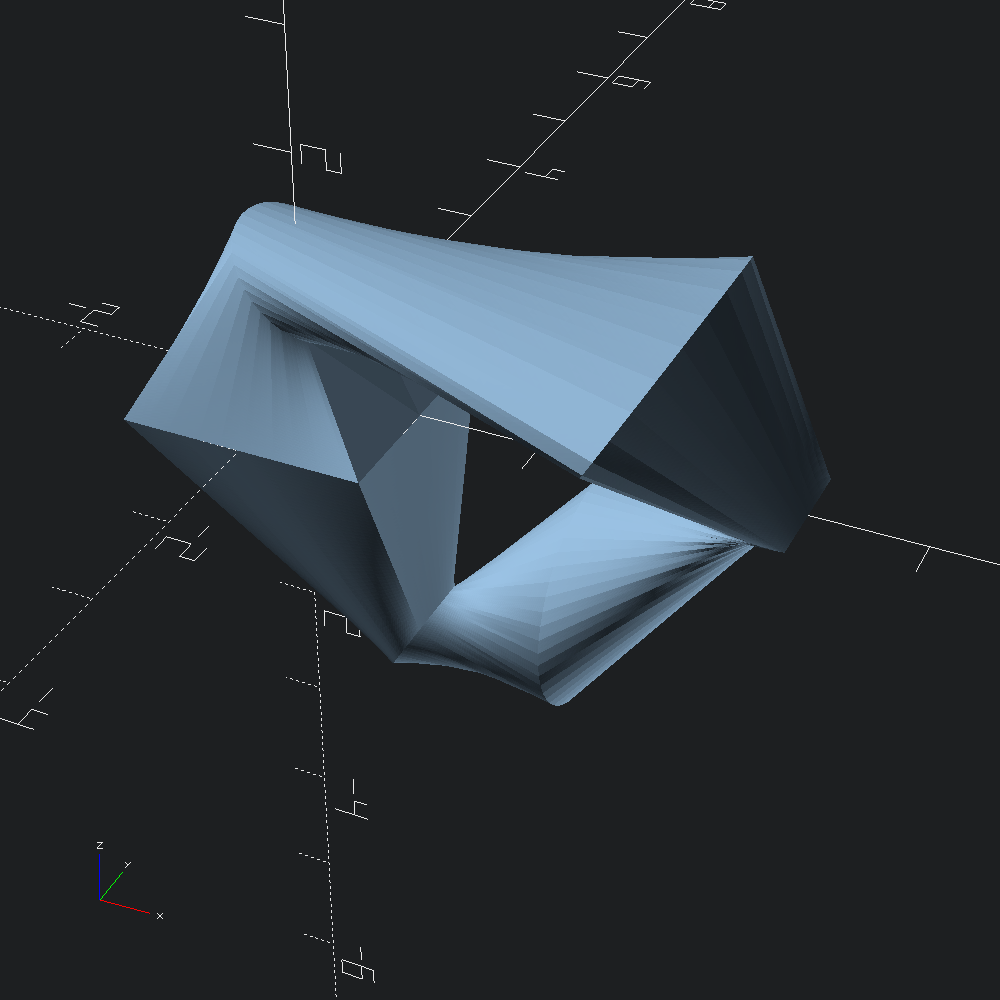
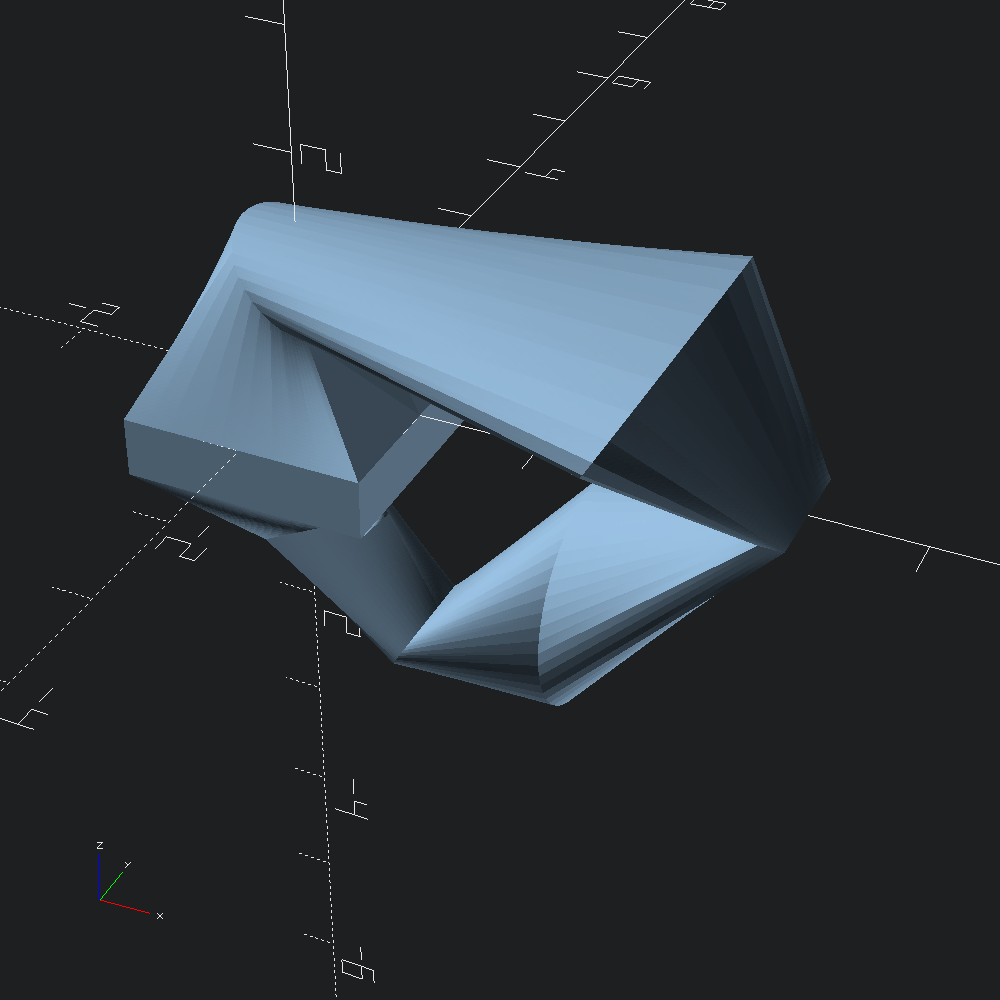
deploy: c149e432623deca5cec01039ba55d0dbb149db04

Changed region(s): [[0.124, 0.279, 0.775, 0.713], [0.31, 0.186, 0.713, 0.279]]

diff --git a/scad_ml/Scad_ml/Math/index.html b/scad_ml/Scad_ml/Math/index.html
@@ -1,2 +1,2 @@
 <!DOCTYPE html>
-<html xmlns="http://www.w3.org/1999/xhtml"><head><title>Math (scad_ml.Scad_ml.Math)</title><link rel="stylesheet" href="../../../odoc.css"/><meta charset="utf-8"/><meta name="generator" content="odoc 2.1.1"/><meta name="viewport" content="width=device-width,initial-scale=1.0"/><script src="../../../highlight.pack.js"></script><script>hljs.initHighlightingOnLoad();</script></head><body class="odoc"><nav class="odoc-nav"><a href="../index.html">Up</a> – <a href="../../index.html">scad_ml</a> &#x00BB; <a href="../index.html">Scad_ml</a> &#x00BB; Math</nav><header class="odoc-preamble"><h1>Module <code><span>Scad_ml.Math</span></code></h1><p>Various operations on floats (<i>e.g.</i> approximate equality, linear interpolation), and basic arbitrary size 2d matrix operations.</p></header><nav class="odoc-toc"><ul><li><a href="#float-operations">Float operations</a></li><li><a href="#angles-and-trigonometry">Angles and Trigonometry</a></li><li><a href="#2d-matrix-operations">2d matrix operations</a></li><li><a href="#polynomials">Polynomials</a></li></ul></nav><div class="odoc-content"><h2 id="float-operations"><a href="#float-operations" class="anchor"></a>Float operations</h2><div class="odoc-spec"><div class="spec value" id="val-sign" class="anchored"><a href="#val-sign" class="anchor"></a><code><span><span class="keyword">val</span> sign : <span>float <span class="arrow">&#45;&gt;</span></span> float</span></code></div><div class="spec-doc"><p><code>sign v</code></p><p>Return the sign of <code>v</code> as a float (<code>-1.</code>, <code>0.</code>, or <code>1.</code>).</p></div></div><div class="odoc-spec"><div class="spec value" id="val-clamp" class="anchored"><a href="#val-clamp" class="anchor"></a><code><span><span class="keyword">val</span> clamp : <span>min:float <span class="arrow">&#45;&gt;</span></span> <span>max:float <span class="arrow">&#45;&gt;</span></span> <span>float <span class="arrow">&#45;&gt;</span></span> float</span></code></div><div class="spec-doc"><p><code>clamp ~min ~max v</code></p><p>Clamp the float <code>v</code> between <code>min</code> and <code>max</code>.</p></div></div><div class="odoc-spec"><div class="spec value" id="val-lerp" class="anchored"><a href="#val-lerp" class="anchor"></a><code><span><span class="keyword">val</span> lerp : <span>float <span class="arrow">&#45;&gt;</span></span> <span>float <span class="arrow">&#45;&gt;</span></span> <span>float <span class="arrow">&#45;&gt;</span></span> float</span></code></div><div class="spec-doc"><p><code>lerp a b u</code></p><p>Linearly interpolate between floats <code>a</code> and <code>b</code>.</p></div></div><div class="odoc-spec"><div class="spec value" id="val-lerpn" class="anchored"><a href="#val-lerpn" class="anchor"></a><code><span><span class="keyword">val</span> lerpn : <span>?endpoint:bool <span class="arrow">&#45;&gt;</span></span> <span>float <span class="arrow">&#45;&gt;</span></span> <span>float <span class="arrow">&#45;&gt;</span></span> <span>int <span class="arrow">&#45;&gt;</span></span> <span>float list</span></span></code></div><div class="spec-doc"><p><code>lerpn ?endpoint a b n</code></p><p>Linearly interpolate <code>n</code> values between <code>a</code> and <code>b</code>. If <code>endpoint</code> is <code>true</code>, the last value will be equal to <code>b</code>, otherwise, it will be about <code>a + (b - a) * (1 - 1 / n)</code>.</p></div></div><div class="odoc-spec"><div class="spec value" id="val-quant" class="anchored"><a href="#val-quant" class="anchor"></a><code><span><span class="keyword">val</span> quant : <span>q:float <span class="arrow">&#45;&gt;</span></span> <span>float <span class="arrow">&#45;&gt;</span></span> float</span></code></div><div class="spec-doc"><p><code>quant ~q v</code></p><p>Quantize <code>v</code> to a multiple of the quantum size <code>q</code>. For example:</p><pre><code>quant ~q:0.2 1.5 = 1.6</code></pre></div></div><div class="odoc-spec"><div class="spec value" id="val-quant_down" class="anchored"><a href="#val-quant_down" class="anchor"></a><code><span><span class="keyword">val</span> quant_down : <span>q:float <span class="arrow">&#45;&gt;</span></span> <span>float <span class="arrow">&#45;&gt;</span></span> float</span></code></div><div class="spec-doc"><p><code>quant_down ~q v</code></p><p>Quantize <code>v</code> to a multiple of the quantum size <code>q</code>, always rounding down. For example:</p><pre><code>quant_down ~q:0.2 1.75 = 1.6</code></pre></div></div><div class="odoc-spec"><div class="spec value" id="val-quant_up" class="anchored"><a href="#val-quant_up" class="anchor"></a><code><span><span class="keyword">val</span> quant_up : <span>q:float <span class="arrow">&#45;&gt;</span></span> <span>float <span class="arrow">&#45;&gt;</span></span> float</span></code></div><div class="spec-doc"><p><code>quant_up ~q v</code></p><p>Quantize <code>v</code> to a multiple of the quantum size <code>q</code>, always rounding up. For example:</p><pre><code>quant_up ~q:0.2 1.51 = 1.6</code></pre></div></div><div class="odoc-spec"><div class="spec value" id="val-approx" class="anchored"><a href="#val-approx" class="anchor"></a><code><span><span class="keyword">val</span> approx : <span>?eps:float <span class="arrow">&#45;&gt;</span></span> <span>float <span class="arrow">&#45;&gt;</span></span> <span>float <span class="arrow">&#45;&gt;</span></span> bool</span></code></div><div class="spec-doc"><p><code>approx ?eps a b</code></p><p>Return <code>true</code> if <code>a</code> is within the tolerance <code>eps</code> of <code>b</code>.</p></div></div><div class="odoc-spec"><div class="spec value" id="val-posmod" class="anchored"><a href="#val-posmod" class="anchor"></a><code><span><span class="keyword">val</span> posmod : <span>float <span class="arrow">&#45;&gt;</span></span> <span>float <span class="arrow">&#45;&gt;</span></span> float</span></code></div><div class="spec-doc"><p><code>posmod a m</code></p><p>Compute the positive modulo <code>m</code> of <code>a</code>. The resulting value will be in the range of <code>0.</code> to <code>m -. 1.</code>.</p></div></div><h2 id="angles-and-trigonometry"><a href="#angles-and-trigonometry" class="anchor"></a>Angles and Trigonometry</h2><div class="odoc-spec"><div class="spec value" id="val-deg_of_rad" class="anchored"><a href="#val-deg_of_rad" class="anchor"></a><code><span><span class="keyword">val</span> deg_of_rad : <span>float <span class="arrow">&#45;&gt;</span></span> float</span></code></div><div class="spec-doc"><p><code>deg_of_rad r</code></p><p>Convert <code>r</code> from radians to degrees.</p></div></div><div class="odoc-spec"><div class="spec value" id="val-rad_of_deg" class="anchored"><a href="#val-rad_of_deg" class="anchor"></a><code><span><span class="keyword">val</span> rad_of_deg : <span>float <span class="arrow">&#45;&gt;</span></span> float</span></code></div><div class="spec-doc"><p><code>rad_of_deg d</code></p><p>Convert <code>d</code> from degrees to radians.</p></div></div><div class="odoc-spec"><div class="spec value" id="val-law_of_cosines" class="anchored"><a href="#val-law_of_cosines" class="anchor"></a><code><span><span class="keyword">val</span> law_of_cosines : <span>float <span class="arrow">&#45;&gt;</span></span> <span>float <span class="arrow">&#45;&gt;</span></span> <span>float <span class="arrow">&#45;&gt;</span></span> float</span></code></div><div class="spec-doc"><p><code>law_of_cosines a b c</code></p><p>Apply the Law of Cosines for a triangle with side lengths <code>a</code>, <code>b</code>, and <code>c</code>. The angle in radians of the corner opposite of the third side <code>c</code> is returned.</p></div></div><h2 id="2d-matrix-operations"><a href="#2d-matrix-operations" class="anchor"></a>2d matrix operations</h2><div class="odoc-spec"><div class="spec value" id="val-mat_dims" class="anchored"><a href="#val-mat_dims" class="anchor"></a><code><span><span class="keyword">val</span> mat_dims : <span><span><span><span class="type-var">'a</span> array</span> array</span> <span class="arrow">&#45;&gt;</span></span> int * int</span></code></div><div class="spec-doc"><p><code>mat_dims m</code></p><p>Return the dimensions (<code>(n_rows, n_cols)</code> of the 2d matrix <code>m</code>. An <code>Invalid_argument</code> exception is raised if the row lengths are inconsistent.</p></div></div><div class="odoc-spec"><div class="spec value" id="val-matmul" class="anchored"><a href="#val-matmul" class="anchor"></a><code><span><span class="keyword">val</span> matmul : <span><span><span>float array</span> array</span> <span class="arrow">&#45;&gt;</span></span> <span><span><span>float array</span> array</span> <span class="arrow">&#45;&gt;</span></span> <span><span>float array</span> array</span></span></code></div><div class="spec-doc"><p><code>matmul a b</code></p><p>Matrix multiplication of <code>a</code> and <code>b</code>. <code>Invalid_argument</code> is raised if the inner dimensions do not match, or if the rows of either matrix are ragged.</p></div></div><div class="odoc-spec"><div class="spec value" id="val-transpose" class="anchored"><a href="#val-transpose" class="anchor"></a><code><span><span class="keyword">val</span> transpose : <span><span><span><span class="type-var">'a</span> array</span> array</span> <span class="arrow">&#45;&gt;</span></span> <span><span><span class="type-var">'a</span> array</span> array</span></span></code></div><div class="spec-doc"><p><code>transpose m</code></p><p>Transpose rows and columns of the 2d matrix <code>m</code>.</p></div></div><h2 id="polynomials"><a href="#polynomials" class="anchor"></a>Polynomials</h2><div class="odoc-spec"><div class="spec value" id="val-real_roots" class="anchored"><a href="#val-real_roots" class="anchor"></a><code><span><span class="keyword">val</span> real_roots : <span>?eps:float <span class="arrow">&#45;&gt;</span></span> <span>?tol:float <span class="arrow">&#45;&gt;</span></span> <span><span>float array</span> <span class="arrow">&#45;&gt;</span></span> <span>float array</span></span></code></div><div class="spec-doc"><p><code>real_roots ?eps ?tol p</code></p><p>Compute the real roots of the real polynomial <code>p</code>. The polynomial is specified as <code>[|a_n; ...; a_1; a_0|]</code> where <code>a_n</code> is the <code>x ** n</code> coefficient.</p><ul><li><code>eps</code> is used to determine if the imaginary parts of the roots are zero</li><li><code>tol</code> is the tolerance for the complex polynomial root finder</li></ul><p>Adapted from the <code>real_roots</code> function found in the <a href="https://github.com/revarbat/BOSL2/blob/master/math.scad#L1361">BOSL2 math module</a>.</p></div></div></div></body></html>
+<html xmlns="http://www.w3.org/1999/xhtml"><head><title>Math (scad_ml.Scad_ml.Math)</title><link rel="stylesheet" href="../../../odoc.css"/><meta charset="utf-8"/><meta name="generator" content="odoc 2.1.1"/><meta name="viewport" content="width=device-width,initial-scale=1.0"/><script src="../../../highlight.pack.js"></script><script>hljs.initHighlightingOnLoad();</script></head><body class="odoc"><nav class="odoc-nav"><a href="../index.html">Up</a> – <a href="../../index.html">scad_ml</a> &#x00BB; <a href="../index.html">Scad_ml</a> &#x00BB; Math</nav><header class="odoc-preamble"><h1>Module <code><span>Scad_ml.Math</span></code></h1><p>Various operations on floats (<i>e.g.</i> approximate equality, linear interpolation), and basic arbitrary size 2d matrix operations.</p></header><nav class="odoc-toc"><ul><li><a href="#float-operations">Float operations</a></li><li><a href="#angles-and-trigonometry">Angles and Trigonometry</a></li><li><a href="#2d-matrix-operations">2d matrix operations</a></li><li><a href="#polynomials">Polynomials</a></li></ul></nav><div class="odoc-content"><h2 id="float-operations"><a href="#float-operations" class="anchor"></a>Float operations</h2><div class="odoc-spec"><div class="spec value" id="val-sign" class="anchored"><a href="#val-sign" class="anchor"></a><code><span><span class="keyword">val</span> sign : <span>float <span class="arrow">&#45;&gt;</span></span> float</span></code></div><div class="spec-doc"><p><code>sign v</code></p><p>Return the sign of <code>v</code> as a float (<code>-1.</code>, <code>0.</code>, or <code>1.</code>).</p></div></div><div class="odoc-spec"><div class="spec value" id="val-clamp" class="anchored"><a href="#val-clamp" class="anchor"></a><code><span><span class="keyword">val</span> clamp : <span>min:float <span class="arrow">&#45;&gt;</span></span> <span>max:float <span class="arrow">&#45;&gt;</span></span> <span>float <span class="arrow">&#45;&gt;</span></span> float</span></code></div><div class="spec-doc"><p><code>clamp ~min ~max v</code></p><p>Clamp the float <code>v</code> between <code>min</code> and <code>max</code>.</p></div></div><div class="odoc-spec"><div class="spec value" id="val-lerp" class="anchored"><a href="#val-lerp" class="anchor"></a><code><span><span class="keyword">val</span> lerp : <span>float <span class="arrow">&#45;&gt;</span></span> <span>float <span class="arrow">&#45;&gt;</span></span> <span>float <span class="arrow">&#45;&gt;</span></span> float</span></code></div><div class="spec-doc"><p><code>lerp a b u</code></p><p>Linearly interpolate between floats <code>a</code> and <code>b</code>.</p></div></div><div class="odoc-spec"><div class="spec value" id="val-lerpn" class="anchored"><a href="#val-lerpn" class="anchor"></a><code><span><span class="keyword">val</span> lerpn : <span>?endpoint:bool <span class="arrow">&#45;&gt;</span></span> <span>float <span class="arrow">&#45;&gt;</span></span> <span>float <span class="arrow">&#45;&gt;</span></span> <span>int <span class="arrow">&#45;&gt;</span></span> <span>float list</span></span></code></div><div class="spec-doc"><p><code>lerpn ?endpoint a b n</code></p><p>Linearly interpolate <code>n</code> values between <code>a</code> and <code>b</code>. If <code>endpoint</code> is <code>true</code>, the last value will be equal to <code>b</code>, otherwise, it will be about <code>a + (b - a) * (1 - 1 / n)</code>.</p></div></div><div class="odoc-spec"><div class="spec value" id="val-quant" class="anchored"><a href="#val-quant" class="anchor"></a><code><span><span class="keyword">val</span> quant : <span>q:float <span class="arrow">&#45;&gt;</span></span> <span>float <span class="arrow">&#45;&gt;</span></span> float</span></code></div><div class="spec-doc"><p><code>quant ~q v</code></p><p>Quantize <code>v</code> to a multiple of the quantum size <code>q</code>. For example:</p><pre><code>quant ~q:0.2 1.5 = 1.6</code></pre></div></div><div class="odoc-spec"><div class="spec value" id="val-quant_down" class="anchored"><a href="#val-quant_down" class="anchor"></a><code><span><span class="keyword">val</span> quant_down : <span>q:float <span class="arrow">&#45;&gt;</span></span> <span>float <span class="arrow">&#45;&gt;</span></span> float</span></code></div><div class="spec-doc"><p><code>quant_down ~q v</code></p><p>Quantize <code>v</code> to a multiple of the quantum size <code>q</code>, always rounding down. For example:</p><pre><code>quant_down ~q:0.2 1.75 = 1.6</code></pre></div></div><div class="odoc-spec"><div class="spec value" id="val-quant_up" class="anchored"><a href="#val-quant_up" class="anchor"></a><code><span><span class="keyword">val</span> quant_up : <span>q:float <span class="arrow">&#45;&gt;</span></span> <span>float <span class="arrow">&#45;&gt;</span></span> float</span></code></div><div class="spec-doc"><p><code>quant_up ~q v</code></p><p>Quantize <code>v</code> to a multiple of the quantum size <code>q</code>, always rounding up. For example:</p><pre><code>quant_up ~q:0.2 1.51 = 1.6</code></pre></div></div><div class="odoc-spec"><div class="spec value" id="val-approx" class="anchored"><a href="#val-approx" class="anchor"></a><code><span><span class="keyword">val</span> approx : <span>?eps:float <span class="arrow">&#45;&gt;</span></span> <span>float <span class="arrow">&#45;&gt;</span></span> <span>float <span class="arrow">&#45;&gt;</span></span> bool</span></code></div><div class="spec-doc"><p><code>approx ?eps a b</code></p><p>Return <code>true</code> if <code>a</code> is within the tolerance <code>eps</code> of <code>b</code>.</p></div></div><div class="odoc-spec"><div class="spec value" id="val-posmod" class="anchored"><a href="#val-posmod" class="anchor"></a><code><span><span class="keyword">val</span> posmod : <span>int <span class="arrow">&#45;&gt;</span></span> <span>int <span class="arrow">&#45;&gt;</span></span> int</span></code></div><div class="spec-doc"><p><code>posmod a m</code></p><p>Compute the positive modulo <code>m</code> of <code>a</code>. The resulting value will be in the range of <code>0</code> to <code>m - 1</code>.</p></div></div><h2 id="angles-and-trigonometry"><a href="#angles-and-trigonometry" class="anchor"></a>Angles and Trigonometry</h2><div class="odoc-spec"><div class="spec value" id="val-deg_of_rad" class="anchored"><a href="#val-deg_of_rad" class="anchor"></a><code><span><span class="keyword">val</span> deg_of_rad : <span>float <span class="arrow">&#45;&gt;</span></span> float</span></code></div><div class="spec-doc"><p><code>deg_of_rad r</code></p><p>Convert <code>r</code> from radians to degrees.</p></div></div><div class="odoc-spec"><div class="spec value" id="val-rad_of_deg" class="anchored"><a href="#val-rad_of_deg" class="anchor"></a><code><span><span class="keyword">val</span> rad_of_deg : <span>float <span class="arrow">&#45;&gt;</span></span> float</span></code></div><div class="spec-doc"><p><code>rad_of_deg d</code></p><p>Convert <code>d</code> from degrees to radians.</p></div></div><div class="odoc-spec"><div class="spec value" id="val-law_of_cosines" class="anchored"><a href="#val-law_of_cosines" class="anchor"></a><code><span><span class="keyword">val</span> law_of_cosines : <span>float <span class="arrow">&#45;&gt;</span></span> <span>float <span class="arrow">&#45;&gt;</span></span> <span>float <span class="arrow">&#45;&gt;</span></span> float</span></code></div><div class="spec-doc"><p><code>law_of_cosines a b c</code></p><p>Apply the Law of Cosines for a triangle with side lengths <code>a</code>, <code>b</code>, and <code>c</code>. The angle in radians of the corner opposite of the third side <code>c</code> is returned.</p></div></div><h2 id="2d-matrix-operations"><a href="#2d-matrix-operations" class="anchor"></a>2d matrix operations</h2><div class="odoc-spec"><div class="spec value" id="val-mat_dims" class="anchored"><a href="#val-mat_dims" class="anchor"></a><code><span><span class="keyword">val</span> mat_dims : <span><span><span><span class="type-var">'a</span> array</span> array</span> <span class="arrow">&#45;&gt;</span></span> int * int</span></code></div><div class="spec-doc"><p><code>mat_dims m</code></p><p>Return the dimensions (<code>(n_rows, n_cols)</code> of the 2d matrix <code>m</code>. An <code>Invalid_argument</code> exception is raised if the row lengths are inconsistent.</p></div></div><div class="odoc-spec"><div class="spec value" id="val-matmul" class="anchored"><a href="#val-matmul" class="anchor"></a><code><span><span class="keyword">val</span> matmul : <span><span><span>float array</span> array</span> <span class="arrow">&#45;&gt;</span></span> <span><span><span>float array</span> array</span> <span class="arrow">&#45;&gt;</span></span> <span><span>float array</span> array</span></span></code></div><div class="spec-doc"><p><code>matmul a b</code></p><p>Matrix multiplication of <code>a</code> and <code>b</code>. <code>Invalid_argument</code> is raised if the inner dimensions do not match, or if the rows of either matrix are ragged.</p></div></div><div class="odoc-spec"><div class="spec value" id="val-transpose" class="anchored"><a href="#val-transpose" class="anchor"></a><code><span><span class="keyword">val</span> transpose : <span><span><span><span class="type-var">'a</span> array</span> array</span> <span class="arrow">&#45;&gt;</span></span> <span><span><span class="type-var">'a</span> array</span> array</span></span></code></div><div class="spec-doc"><p><code>transpose m</code></p><p>Transpose rows and columns of the 2d matrix <code>m</code>.</p></div></div><h2 id="polynomials"><a href="#polynomials" class="anchor"></a>Polynomials</h2><div class="odoc-spec"><div class="spec value" id="val-real_roots" class="anchored"><a href="#val-real_roots" class="anchor"></a><code><span><span class="keyword">val</span> real_roots : <span>?eps:float <span class="arrow">&#45;&gt;</span></span> <span>?tol:float <span class="arrow">&#45;&gt;</span></span> <span><span>float array</span> <span class="arrow">&#45;&gt;</span></span> <span>float array</span></span></code></div><div class="spec-doc"><p><code>real_roots ?eps ?tol p</code></p><p>Compute the real roots of the real polynomial <code>p</code>. The polynomial is specified as <code>[|a_n; ...; a_1; a_0|]</code> where <code>a_n</code> is the <code>x ** n</code> coefficient.</p><ul><li><code>eps</code> is used to determine if the imaginary parts of the roots are zero</li><li><code>tol</code> is the tolerance for the complex polynomial root finder</li></ul><p>Adapted from the <code>real_roots</code> function found in the <a href="https://github.com/revarbat/BOSL2/blob/master/math.scad#L1361">BOSL2 math module</a>.</p></div></div></div></body></html>

diff --git a/scad_ml/Scad_ml/Skin/index.html b/scad_ml/Scad_ml/Skin/index.html
@@ -1,5 +1,5 @@
 <!DOCTYPE html>
-<html xmlns="http://www.w3.org/1999/xhtml"><head><title>Skin (scad_ml.Scad_ml.Skin)</title><link rel="stylesheet" href="../../../odoc.css"/><meta charset="utf-8"/><meta name="generator" content="odoc 2.1.1"/><meta name="viewport" content="width=device-width,initial-scale=1.0"/><script src="../../../highlight.pack.js"></script><script>hljs.initHighlightingOnLoad();</script></head><body class="odoc"><nav class="odoc-nav"><a href="../index.html">Up</a> – <a href="../../index.html">scad_ml</a> &#x00BB; <a href="../index.html">Scad_ml</a> &#x00BB; Skin</nav><header class="odoc-preamble"><h1>Module <code><span>Scad_ml.Skin</span></code></h1></header><div class="odoc-content"><div class="odoc-spec"><div class="spec module" id="module-Bez" class="anchored"><a href="#module-Bez" class="anchor"></a><code><span><span class="keyword">module</span> <a href="Bez/index.html">Bez</a></span><span> : <span class="keyword">sig</span> ... <span class="keyword">end</span></span></code></div></div><div class="odoc-spec"><div class="spec type" id="type-sampling" class="anchored"><a href="#type-sampling" class="anchor"></a><code><span><span class="keyword">type</span> sampling</span><span> = </span><span>[ </span></code><table><tr id="type-sampling.ByLen" class="anchored"><td class="def constructor"><a href="#type-sampling.ByLen" class="anchor"></a><code><span>| </span></code><code><span>`ByLen</span></code></td></tr><tr id="type-sampling.BySeg" class="anchored"><td class="def constructor"><a href="#type-sampling.BySeg" class="anchor"></a><code><span>| </span></code><code><span>`BySeg</span></code></td></tr></table><code><span> ]</span></code></div></div><div class="odoc-spec"><div class="spec type" id="type-resampler" class="anchored"><a href="#type-resampler" class="anchor"></a><code><span><span class="keyword">type</span> resampler</span><span> = </span><span>[ </span></code><table><tr id="type-resampler.Direct" class="anchored"><td class="def constructor"><a href="#type-resampler.Direct" class="anchor"></a><code><span>| </span></code><code><span>`Direct <span class="keyword">of</span> <a href="#type-sampling">sampling</a></span></code></td></tr><tr id="type-resampler.Reindex" class="anchored"><td class="def constructor"><a href="#type-resampler.Reindex" class="anchor"></a><code><span>| </span></code><code><span>`Reindex <span class="keyword">of</span> <a href="#type-sampling">sampling</a></span></code></td></tr></table><code><span> ]</span></code></div></div><div class="odoc-spec"><div class="spec type" id="type-duplicator" class="anchored"><a href="#type-duplicator" class="anchor"></a><code><span><span class="keyword">type</span> duplicator</span><span> = </span><span>[ </span></code><table><tr id="type-duplicator.Distance" class="anchored"><td class="def constructor"><a href="#type-duplicator.Distance" class="anchor"></a><code><span>| </span></code><code><span>`Distance</span></code></td></tr><tr id="type-duplicator.FastDistance" class="anchored"><td class="def constructor"><a href="#type-duplicator.FastDistance" class="anchor"></a><code><span>| </span></code><code><span>`FastDistance</span></code></td></tr><tr id="type-duplicator.Tangent" class="anchored"><td class="def constructor"><a href="#type-duplicator.Tangent" class="anchor"></a><code><span>| </span></code><code><span>`Tangent</span></code></td></tr></table><code><span> ]</span></code></div></div><div class="odoc-spec"><div class="spec type" id="type-spec" class="anchored"><a href="#type-spec" class="anchor"></a><code><span><span class="keyword">type</span> spec</span><span> = </span><span>[ </span></code><table><tr id="type-spec.Flat" class="anchored"><td class="def constructor"><a href="#type-spec.Flat" class="anchor"></a><code><span>| </span></code><code><span>`Flat <span class="keyword">of</span> <span>[ <a href="#type-resampler">resampler</a> <span>| <a href="#type-duplicator">duplicator</a></span> ]</span></span></code></td></tr><tr id="type-spec.Mix" class="anchored"><td class="def constructor"><a href="#type-spec.Mix" class="anchor"></a><code><span>| </span></code><code><span>`Mix <span class="keyword">of</span> <span><span>[ <a href="#type-resampler">resampler</a> <span>| <a href="#type-duplicator">duplicator</a></span> ]</span> list</span></span></code></td></tr></table><code><span> ]</span></code></div></div><div class="odoc-spec"><div class="spec type" id="type-slices" class="anchored"><a href="#type-slices" class="anchor"></a><code><span><span class="keyword">type</span> slices</span><span> = </span><span>[ </span></code><table><tr id="type-slices.Flat" class="anchored"><td class="def constructor"><a href="#type-slices.Flat" class="anchor"></a><code><span>| </span></code><code><span>`Flat <span class="keyword">of</span> int</span></code></td></tr><tr id="type-slices.Mix" class="anchored"><td class="def constructor"><a href="#type-slices.Mix" class="anchor"></a><code><span>| </span></code><code><span>`Mix <span class="keyword">of</span> <span>int list</span></span></code></td></tr></table><code><span> ]</span></code></div></div><div class="odoc-spec"><div class="spec value" id="val-is_direct" class="anchored"><a href="#val-is_direct" class="anchor"></a><code><span><span class="keyword">val</span> is_direct : <span><a href="#type-resampler">resampler</a> <span class="arrow">&#45;&gt;</span></span> bool</span></code></div></div><div class="odoc-spec"><div class="spec value" id="val-is_resampler" class="anchored"><a href="#val-is_resampler" class="anchor"></a><code><span><span class="keyword">val</span> is_resampler : 
+<html xmlns="http://www.w3.org/1999/xhtml"><head><title>Skin (scad_ml.Scad_ml.Skin)</title><link rel="stylesheet" href="../../../odoc.css"/><meta charset="utf-8"/><meta name="generator" content="odoc 2.1.1"/><meta name="viewport" content="width=device-width,initial-scale=1.0"/><script src="../../../highlight.pack.js"></script><script>hljs.initHighlightingOnLoad();</script></head><body class="odoc"><nav class="odoc-nav"><a href="../index.html">Up</a> – <a href="../../index.html">scad_ml</a> &#x00BB; <a href="../index.html">Scad_ml</a> &#x00BB; Skin</nav><header class="odoc-preamble"><h1>Module <code><span>Scad_ml.Skin</span></code></h1></header><div class="odoc-content"><div class="odoc-spec"><div class="spec module" id="module-Bez" class="anchored"><a href="#module-Bez" class="anchor"></a><code><span><span class="keyword">module</span> <a href="Bez/index.html">Bez</a></span><span> : <span class="keyword">sig</span> ... <span class="keyword">end</span></span></code></div></div><div class="odoc-spec"><div class="spec type" id="type-sampling" class="anchored"><a href="#type-sampling" class="anchor"></a><code><span><span class="keyword">type</span> sampling</span><span> = </span><span>[ </span></code><table><tr id="type-sampling.ByLen" class="anchored"><td class="def constructor"><a href="#type-sampling.ByLen" class="anchor"></a><code><span>| </span></code><code><span>`ByLen</span></code></td></tr><tr id="type-sampling.BySeg" class="anchored"><td class="def constructor"><a href="#type-sampling.BySeg" class="anchor"></a><code><span>| </span></code><code><span>`BySeg</span></code></td></tr></table><code><span> ]</span></code></div></div><div class="odoc-spec"><div class="spec type" id="type-resampler" class="anchored"><a href="#type-resampler" class="anchor"></a><code><span><span class="keyword">type</span> resampler</span><span> = </span><span>[ </span></code><table><tr id="type-resampler.Direct" class="anchored"><td class="def constructor"><a href="#type-resampler.Direct" class="anchor"></a><code><span>| </span></code><code><span>`Direct <span class="keyword">of</span> <a href="#type-sampling">sampling</a></span></code></td></tr><tr id="type-resampler.Reindex" class="anchored"><td class="def constructor"><a href="#type-resampler.Reindex" class="anchor"></a><code><span>| </span></code><code><span>`Reindex <span class="keyword">of</span> <a href="#type-sampling">sampling</a></span></code></td></tr></table><code><span> ]</span></code></div></div><div class="odoc-spec"><div class="spec type" id="type-duplicator" class="anchored"><a href="#type-duplicator" class="anchor"></a><code><span><span class="keyword">type</span> duplicator</span><span> = </span><span>[ </span></code><table><tr id="type-duplicator.Distance" class="anchored"><td class="def constructor"><a href="#type-duplicator.Distance" class="anchor"></a><code><span>| </span></code><code><span>`Distance</span></code></td></tr><tr id="type-duplicator.FastDistance" class="anchored"><td class="def constructor"><a href="#type-duplicator.FastDistance" class="anchor"></a><code><span>| </span></code><code><span>`FastDistance</span></code></td></tr><tr id="type-duplicator.Tangent" class="anchored"><td class="def constructor"><a href="#type-duplicator.Tangent" class="anchor"></a><code><span>| </span></code><code><span>`Tangent</span></code></td></tr></table><code><span> ]</span></code></div></div><div class="odoc-spec"><div class="spec type" id="type-spec" class="anchored"><a href="#type-spec" class="anchor"></a><code><span><span class="keyword">type</span> spec</span><span> = </span><span>[ </span></code><table><tr id="type-spec.Flat" class="anchored"><td class="def constructor"><a href="#type-spec.Flat" class="anchor"></a><code><span>| </span></code><code><span>`Flat <span class="keyword">of</span> <span>[ <a href="#type-resampler">resampler</a> <span>| <a href="#type-duplicator">duplicator</a></span> ]</span></span></code></td></tr><tr id="type-spec.Mix" class="anchored"><td class="def constructor"><a href="#type-spec.Mix" class="anchor"></a><code><span>| </span></code><code><span>`Mix <span class="keyword">of</span> <span><span>[ <a href="#type-resampler">resampler</a> <span>| <a href="#type-duplicator">duplicator</a></span> ]</span> list</span></span></code></td></tr></table><code><span> ]</span></code></div></div><div class="odoc-spec"><div class="spec type" id="type-slices" class="anchored"><a href="#type-slices" class="anchor"></a><code><span><span class="keyword">type</span> slices</span><span> = </span><span>[ </span></code><table><tr id="type-slices.Flat" class="anchored"><td class="def constructor"><a href="#type-slices.Flat" class="anchor"></a><code><span>| </span></code><code><span>`Flat <span class="keyword">of</span> int</span></code></td></tr><tr id="type-slices.Mix" class="anchored"><td class="def constructor"><a href="#type-slices.Mix" class="anchor"></a><code><span>| </span></code><code><span>`Mix <span class="keyword">of</span> <span>int list</span></span></code></td></tr></table><code><span> ]</span></code></div></div><div class="odoc-spec"><div class="spec value" id="val-is_direct" class="anchored"><a href="#val-is_direct" class="anchor"></a><code><span><span class="keyword">val</span> is_direct : <span><span>[&gt; <span>`Direct of <span class="type-var">'a</span></span> ]</span> <span class="arrow">&#45;&gt;</span></span> bool</span></code></div></div><div class="odoc-spec"><div class="spec value" id="val-is_resampler" class="anchored"><a href="#val-is_resampler" class="anchor"></a><code><span><span class="keyword">val</span> is_resampler : 
   <span><span>[ <span>`Direct of <a href="#type-sampling">sampling</a></span>
   <span>| `Distance</span>
   <span>| `FastDistance</span>
@@ -57,5 +57,5 @@
         list</span></span> ]</span> <span class="arrow">&#45;&gt;</span></span>
   <span>?endcaps:<span>[&lt; `Bot <span>| `Both</span> <span>| `Loop</span> <span>| `None</span> <span>| `Top</span> Both ]</span> <span class="arrow">&#45;&gt;</span></span>
   <span>slices:<span>[&lt; <span>`Flat of int</span> <span><span>| `Mix</span> of <span>int list</span></span> ]</span> <span class="arrow">&#45;&gt;</span></span>
-  <span><span><span><a href="../Vec3/index.html#type-t">Vec3.t</a> list</span> list</span> <span class="arrow">&#45;&gt;</span></span>
+  <span><span><a href="../Path3/index.html#type-t">Path3.t</a> list</span> <span class="arrow">&#45;&gt;</span></span>
   <a href="../Mesh/index.html#type-t">Mesh.t</a></span></code></div></div></div></body></html>

diff --git a/scad_ml/skins_and_morphs.html b/scad_ml/skins_and_morphs.html
@@ -23,13 +23,67 @@ let () =
     |&gt; Path3.rotate (v3 0. (Float.pi /. 1.5) 0.)
     |&gt; Path3.translate (v3 1. 0. (-2.))
     |&gt; List.rev
+  and sq2 =
+    Path3.square ~center:true (v2 1. 1.)
+    |&gt; Path3.rotate (v3 0. 0. (Float.pi /. 4.))
+    |&gt; Path3.translate (v3 0. 0. (-1.))
   in
-  ignore [ sq; circ; ellipse; rect; circ2; ellipse2 ];
+  ignore [ sq; circ; ellipse; rect; circ2; ellipse2; sq2 ];
   Skin.skin
     ~refine:2
     ~endcaps:`Loop
-    ~slices:(`Flat 50)
-    ~spec:(`Flat (`Reindex `ByLen))
-    [ sq; circ; ellipse; rect; circ2; ellipse2 ]
+    ~slices:(`Flat 35)
+    ~spec:
+      (`Mix
+        [ `Reindex `ByLen
+        ; `Reindex `ByLen
+        ; `Reindex `ByLen
+        ; `Reindex `ByLen
+        ; `Reindex `ByLen
+        ; `Reindex `BySeg
+        ; `Distance
+        ; `Direct `BySeg
+        ] )
+    [ sq
+    ; circ
+    ; ellipse
+    ; rect
+    ; circ2
+    ; ellipse2
+    ; sq2
+    ; Path3.translate (v3 0. 0. (-0.5)) sq
+    ]
+  |&gt; Mesh.merge_points
   |&gt; Mesh.to_scad
-  |&gt; fun s -&gt; Scad.union [ s; Scad.sphere 1. ] |&gt; Scad.to_file &quot;skin_test.scad&quot;</code></pre></header><div class="odoc-content"></div></body></html>
+  |&gt; fun s -&gt; Scad.union [ s; Scad.sphere 1. ] |&gt; Scad.to_file &quot;skin_test.scad&quot;
+
+(* let () = *)
+(*   let rounded = *)
+(*     Path3.( *)
+(*       roundover ~fn:32 *)
+(*       @@ Round.flat *)
+(*            ~closed:true *)
+(*            ~corner:(Round.circ (`Radius 15.)) *)
+(*            (v3 (-25.) 25. 0. :: Path3.square (v2 50. 50.))) *)
+(*     |&gt; Path3.subdivide ~closed:true ~freq:(`Refine (4, `ByLen)) *)
+(*   and sq = *)
+(*     v3 4. 0. 0. :: Path3.square ~center:true (v2 10. 10.) *)
+(*     |&gt; Path3.translate (v3 30. 30. 10.) *)
+(*   in *)
+(*   Skin.skin ~refine:2 ~slices:(`Flat 25) ~spec:(`Flat `Tangent) [ rounded; sq ] *)
+(*   |&gt; Mesh.to_scad *)
+(*   |&gt; Scad.to_file &quot;tangent_skin_test.scad&quot; *)
+
+(* NOTE: need to test this simple case with BOSL2 and see where my tangent_match
+   diverges. From looking at the two of them, they seem the same, but the point
+    duplication is leading to 2 or 3 times (exactly) the number of desired
+    points. *)
+
+(* let () = *)
+(*   Skin.skin *)
+(*     ~refine:2 *)
+(*     ~slices:(`Flat 25) *)
+(*     ~spec:(`Flat `Tangent) *)
+(*     Path3.[ translate (v3 0. 0. 3.) @@ circle ~fn:80 2.; circle ~fn:5 4. ] *)
+(*   |&gt; Mesh.to_scad *)
+(*   |&gt; Scad.to_file &quot;tangent_skin_test.scad&quot; *)</code></pre></header><div class="odoc-content"></div></body></html>
